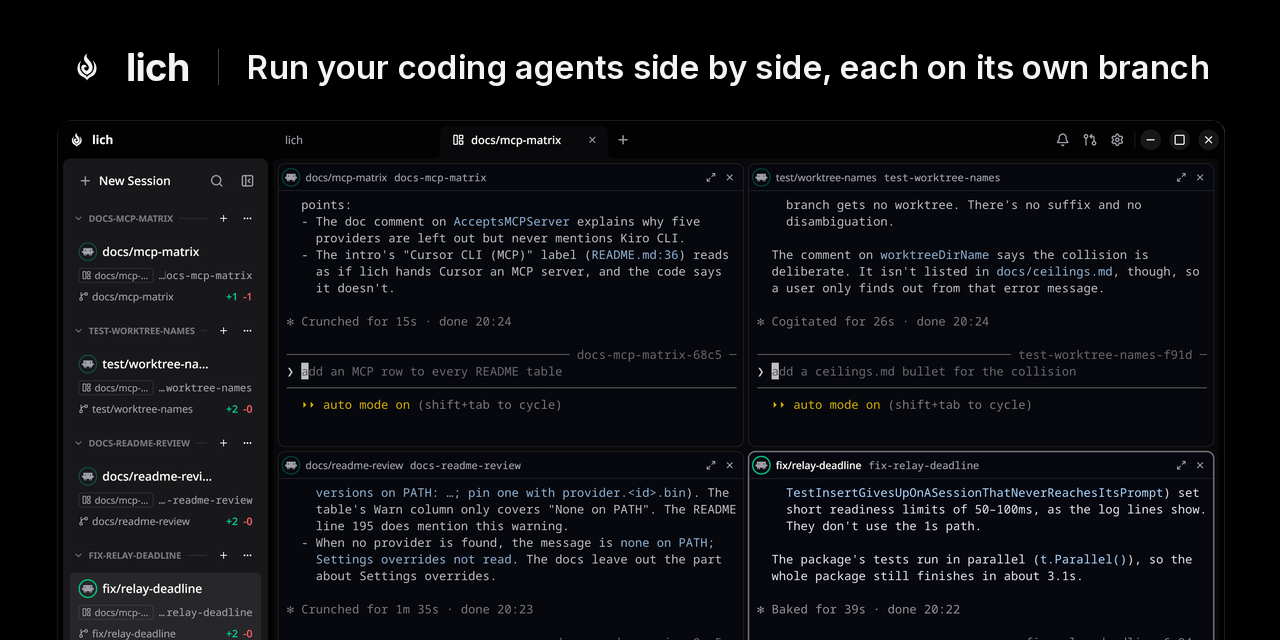
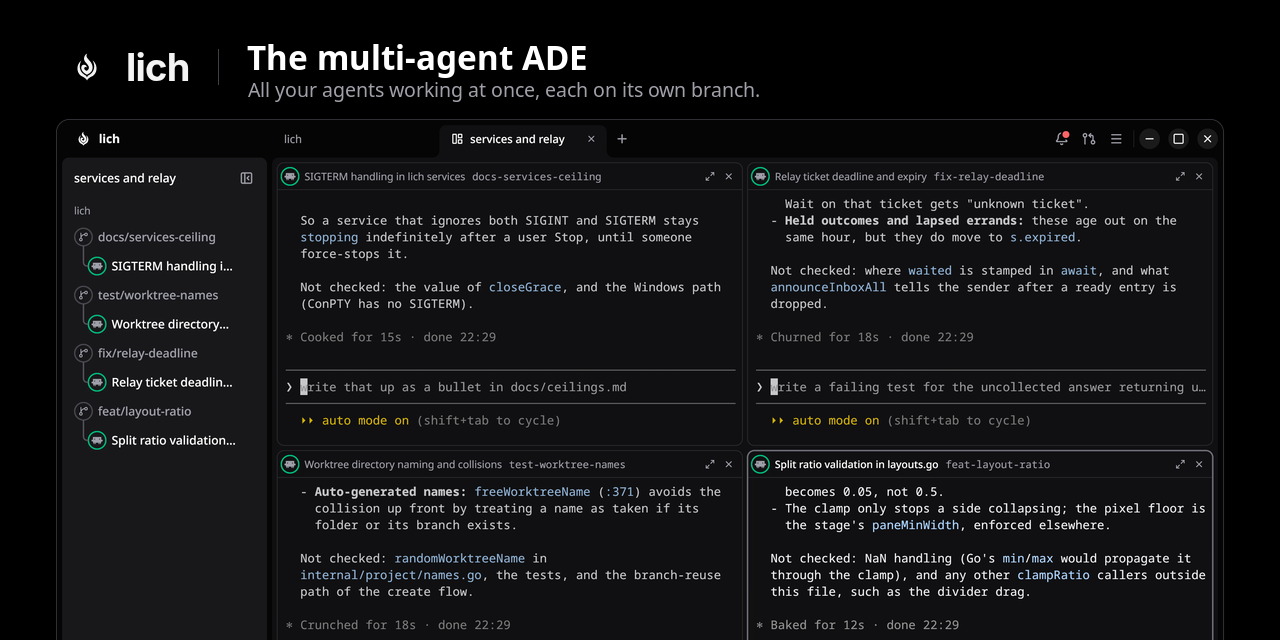
docs: recapture the lead screenshot and the social card (#1133)

diff --git a/README.ja.md b/README.ja.md
@@ -13,7 +13,7 @@
     Claude Code、Codex、opencode など、いま使っているエージェントを、それぞれ専用のワークツリーで、ひとつのウィンドウに。
   </p>
   <h3><a href="#インストール">lich をダウンロード</a> · <a href="https://lichdotdev.github.io/lich/index.ja.html">lichdotdev.github.io/lich</a></h3>
-  <img src="docs/media/session.png" alt="1つの分割画面に並んだ4つの Claude Code セッション。それぞれ専用の git ワークツリーで動いています。サイドバーには各セッションがブランチと差分バッジ付きで並び、その下にプロジェクトで動いているサービスとプロファイルがあります。フッターにはブランチ、モデル、プランが表示されています" width="1000" />
+  <img src="docs/media/session.png" alt="1つのレイアウトに並んだ4つの Claude Code セッション。それぞれ専用の git ワークツリーで動いています。サイドバーには各ワークツリーがブランチ名で並び、その下にセッションがあります。フッターにはブランチ、モデル、コンテキスト使用量、プランの使用量が表示されています" width="1000" />
   <!-- sponsor-logos: company logos go here, between the screenshot and Features -->
 </div>
 

diff --git a/README.ru.md b/README.ru.md
@@ -13,7 +13,7 @@
     Claude Code, Codex, opencode или тот агент, которым вы уже пользуетесь: у каждого свой worktree, и всё в одном окне.
   </p>
   <h3><a href="#установка">Скачать lich</a> · <a href="https://lichdotdev.github.io/lich/index.ru.html">lichdotdev.github.io/lich</a></h3>
-  <img src="docs/media/session.png" alt="Четыре сессии Claude Code рядом на одном экране, каждая в своём git worktree. В боковой панели видны их ветки и значок diff, а внизу запущенные сервисы проекта и профиль; на нижней панели ветка, модель и подписка" width="1000" />
+  <img src="docs/media/session.png" alt="Четыре сессии Claude Code рядом в одной раскладке, каждая в своём git worktree. В боковой панели каждый worktree показан по ветке, под ним его сессия; на нижней панели ветка, модель, занятый контекст и расход подписки" width="1000" />
   <!-- sponsor-logos: company logos go here, between the screenshot and Features -->
 </div>
 

diff --git a/README.ko.md b/README.ko.md
@@ -13,7 +13,7 @@
     Claude Code, Codex, opencode 등 이미 쓰고 있는 에이전트를 각자 자기 worktree에서, 모두 한 창에서 실행하세요.
   </p>
   <h3><a href="#설치">lich 다운로드</a> · <a href="https://lichdotdev.github.io/lich/index.ko.html">lichdotdev.github.io/lich</a></h3>
-  <img src="docs/media/session.png" alt="분할 화면 하나에 나란히 띄운 Claude Code 세션 4개와 각 세션의 git worktree. 사이드바에는 세션별 브랜치와 diff 배지, 맨 아래에 프로젝트에서 실행 중인 서비스와 프로필이 있고, 하단 바에는 브랜치와 모델, 플랜이 보입니다" width="1000" />
+  <img src="docs/media/session.png" alt="레이아웃 하나에 나란히 띄운 Claude Code 세션 4개와 각 세션의 git worktree. 사이드바에는 worktree가 브랜치 이름으로 나열되고 그 아래에 세션이 있으며, 하단 바에는 브랜치와 모델, 컨텍스트 사용량, 플랜 사용량이 보입니다" width="1000" />
   <!-- sponsor-logos: company logos go here, between the screenshot and Features -->
 </div>
 

diff --git a/README.es.md b/README.es.md
@@ -13,7 +13,7 @@
     Claude Code, Codex, opencode o el agente que ya usas, cada uno en su propio worktree, todos en una sola ventana.
   </p>
   <h3><a href="#instalación">Descargar lich</a> · <a href="https://lichdotdev.github.io/lich/index.es.html">lichdotdev.github.io/lich</a></h3>
-  <img src="docs/media/session.png" alt="Cuatro sesiones de Claude Code una al lado de la otra en un mismo grupo, cada una en su propio git worktree. La barra lateral las lista con su rama y su indicador de diff, con los servicios en marcha del proyecto y el perfil al pie, y el pie de ventana muestra la rama, el modelo y el plan" width="1000" />
+  <img src="docs/media/session.png" alt="Cuatro sesiones de Claude Code una al lado de la otra en un mismo diseño, cada una en su propio git worktree. La barra lateral lista cada worktree por su rama, con su sesión debajo, y el pie de ventana muestra la rama, el modelo, el contexto usado y el uso del plan" width="1000" />
   <!-- sponsor-logos: company logos go here, between the screenshot and Features -->
 </div>
 

diff --git a/README.pt-BR.md b/README.pt-BR.md
@@ -13,7 +13,7 @@
     Claude Code, Codex, opencode ou o agente que você já usa, cada um na própria worktree, todos na mesma janela.
   </p>
   <h3><a href="#instalação">Baixar o lich</a> · <a href="https://lichdotdev.github.io/lich/index.pt-BR.html">lichdotdev.github.io/lich</a></h3>
-  <img src="docs/media/session.png" alt="Quatro sessões do Claude Code lado a lado num split, cada uma na sua git worktree. A barra lateral lista as sessões com a branch e o selo de diff e, no pé, os serviços rodando no projeto e o profile; o rodapé mostra a branch, o modelo e o plano" width="1000" />
+  <img src="docs/media/session.png" alt="Quatro sessões do Claude Code lado a lado num layout, cada uma na sua git worktree. A barra lateral lista cada worktree pela branch, com a sessão logo abaixo; o rodapé mostra a branch, o modelo, o contexto usado e o uso do plano" width="1000" />
   <!-- sponsor-logos: company logos go here, between the screenshot and Features -->
 </div>
 

diff --git a/README.md b/README.md
@@ -13,7 +13,7 @@
     Claude Code, Codex, opencode or the agent you already use, each in its own worktree, all in one window.
   </p>
   <h3><a href="#install">Download lich</a> · <a href="https://lichdotdev.github.io/lich/">lichdotdev.github.io/lich</a></h3>
-  <img src="docs/media/session.png" alt="Four Claude Code sessions side by side on one wall, each in its own git worktree. The sidebar lists them with their branch and diff badge, with the project's running services and the profile at its foot, and the footer shows the branch, the model and the plan" width="1000" />
+  <img src="docs/media/session.png" alt="Four Claude Code sessions side by side in one layout, each in its own git worktree. The sidebar lists each worktree by its branch with its session under it, and the footer shows the branch, the model, the context used and the plan usage" width="1000" />
   <!-- sponsor-logos: company logos go here, between the screenshot and Features -->
 </div>
 

diff --git a/README.zh-CN.md b/README.zh-CN.md
@@ -13,7 +13,7 @@
     Claude Code、Codex、opencode，或者你已经在用的智能体，各自在独立的 worktree 里，全都在同一个窗口中。
   </p>
   <h3><a href="#安装">下载 lich</a> · <a href="https://lichdotdev.github.io/lich/index.zh-CN.html">lichdotdev.github.io/lich</a></h3>
-  <img src="docs/media/session.png" alt="同一分屏里并排的四个 Claude Code 会话，各自在独立的 git worktree 里；侧栏列出每个会话的分支和 diff 标记，底部是项目正在运行的服务和当前 profile；底栏显示分支、模型和套餐" width="1000" />
+  <img src="docs/media/session.png" alt="同一布局里并排的四个 Claude Code 会话，各自在独立的 git worktree 里；侧栏按分支列出每个 worktree，会话排在其下；底栏显示分支、模型、已用上下文和套餐用量" width="1000" />
   <!-- sponsor-logos: company logos go here, between the screenshot and Features -->
 </div>
 
